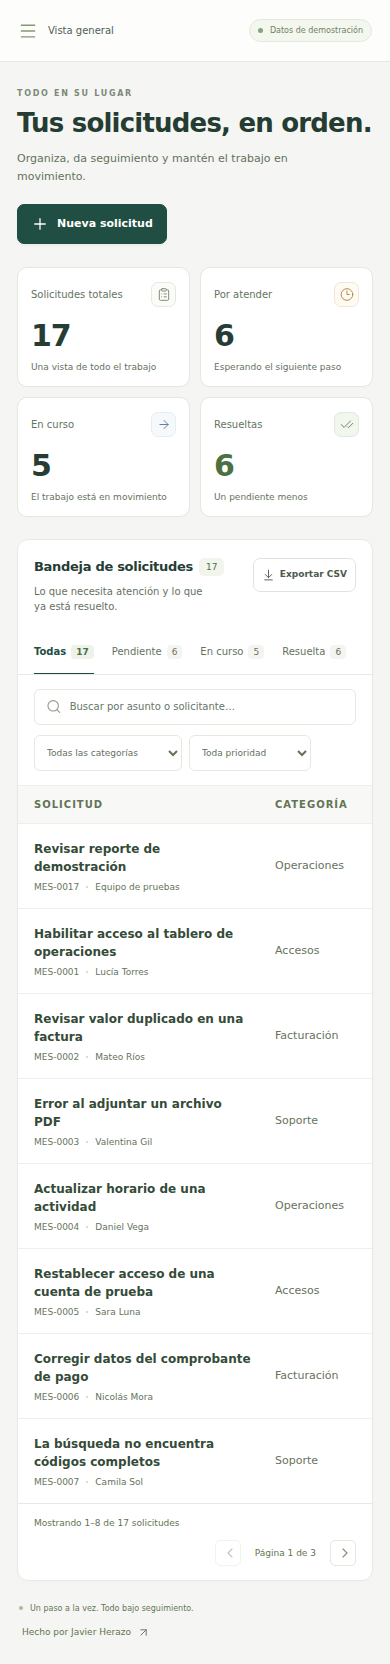
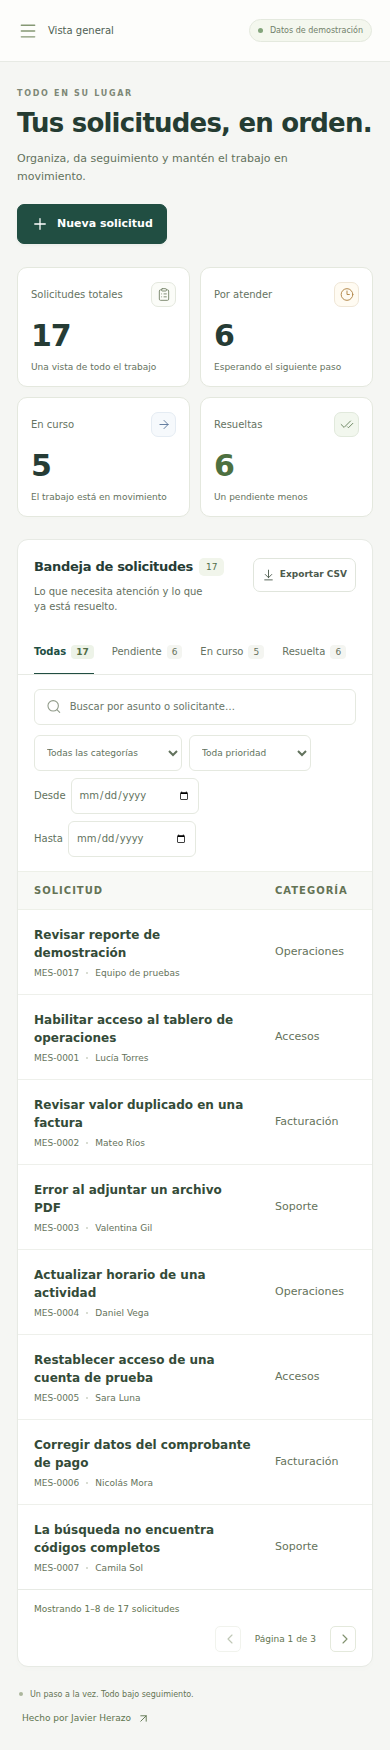
feat: filtra solicitudes por fecha de creacion

diff --git a/src/App.tsx b/src/App.tsx
@@ -36,8 +36,19 @@ import {
 } from './types';
 
 type View = 'overview' | 'requests' | 'reports';
-const emptyFilters: Filters = { search: '', status: '', priority: '', category: '' };
-const shortDate = new Intl.DateTimeFormat('es-CO', { day: '2-digit', month: 'short' });
+const emptyFilters: Filters = {
+  search: '',
+  status: '',
+  priority: '',
+  category: '',
+  dateFrom: '',
+  dateTo: '',
+};
+const shortDate = new Intl.DateTimeFormat('es-CO', {
+  day: '2-digit',
+  month: 'short',
+  timeZone: 'America/Bogota',
+});
 
 export function App() {
   const [view, setView] = useState<View>('overview');
@@ -368,6 +379,26 @@ export function App() {
                       </option>
                     ))}
                   </select>
+                </label>
+                <label className="date-filter">
+                  <span>Desde</span>
+                  <input
+                    aria-label="Fecha de creación desde"
+                    type="date"
+                    value={filters.dateFrom}
+                    max={filters.dateTo || undefined}
+                    onChange={(e) => changeFilter('dateFrom', e.target.value)}
+                  />
+                </label>
+                <label className="date-filter">
+                  <span>Hasta</span>
+                  <input
+                    aria-label="Fecha de creación hasta"
+                    type="date"
+                    value={filters.dateTo}
+                    min={filters.dateFrom || undefined}
+                    onChange={(e) => changeFilter('dateTo', e.target.value)}
+                  />
                 </label>
                 {filtered && (
                   <button className="clear-filters" onClick={clear}>

diff --git a/server/requests.service.ts b/server/requests.service.ts
@@ -1,4 +1,9 @@
-import { ConflictException, Injectable, NotFoundException } from '@nestjs/common';
+import {
+  BadRequestException,
+  ConflictException,
+  Injectable,
+  NotFoundException,
+} from '@nestjs/common';
 import type { SQLInputValue } from 'node:sqlite';
 import { DatabaseService } from './database.service';
 import { ChangeStatusDto, CreateRequestDto, RequestFiltersDto } from './requests.dto';
@@ -32,6 +37,9 @@ export class RequestsService {
   constructor(private readonly database: DatabaseService) {}
 
   private filters(filters: RequestFiltersDto): { where: string; params: SQLInputValue[] } {
+    if (filters.dateFrom && filters.dateTo && filters.dateFrom > filters.dateTo) {
+      throw new BadRequestException('La fecha inicial no puede ser posterior a la fecha final.');
+    }
     const clauses: string[] = [];
     const params: SQLInputValue[] = [];
     for (const field of ['status', 'priority', 'category'] as const) {
@@ -46,6 +54,18 @@ export class RequestsService {
       );
       const search = `%${escapeLike(filters.search)}%`;
       params.push(search, search, search, search);
+    }
+    // A calendar day in Colombia starts at 05:00 UTC. The upper bound is exclusive.
+    if (filters.dateFrom) {
+      clauses.push('createdAt >= ?');
+      params.push(`${filters.dateFrom}T05:00:00.000Z`);
+    }
+    if (filters.dateTo) {
+      const nextDate = new Date(Date.parse(`${filters.dateTo}T00:00:00.000Z`) + 86_400_000)
+        .toISOString()
+        .slice(0, 10);
+      clauses.push('createdAt < ?');
+      params.push(`${nextDate}T05:00:00.000Z`);
     }
     return { where: clauses.length ? `WHERE ${clauses.join(' AND ')}` : '', params };
   }

diff --git a/tests/e2e/workflow.spec.ts b/tests/e2e/workflow.spec.ts
@@ -21,12 +21,26 @@ test('bandeja, paginación, filtros combinados y reporte completo', async ({ pag
   const pendingTab = page.getByRole('button', { name: /^Pendiente/ });
   await pendingTab.click();
   await expect(page.locator('tbody tr')).toHaveCount(1);
+  const result = await request.get('/api/requests?category=Accesos&priority=high&status=pending');
+  const data = await result.json();
+  const dateParts = Object.fromEntries(
+    new Intl.DateTimeFormat('en-US', {
+      year: 'numeric',
+      month: '2-digit',
+      day: '2-digit',
+      timeZone: 'America/Bogota',
+    })
+      .formatToParts(new Date(data.items[0].createdAt))
+      .map(({ type, value }) => [type, value]),
+  );
+  const date = `${dateParts.year}-${dateParts.month}-${dateParts.day}`;
+  await page.getByLabel('Fecha de creación desde').fill(date);
+  await page.getByLabel('Fecha de creación hasta').fill(date);
+  await expect(page.locator('tbody tr')).toHaveCount(1);
   const downloadEvent = page.waitForEvent('download');
   await page.getByRole('button', { name: 'Exportar CSV' }).click();
   const download = await downloadEvent;
   const csv = await readFile((await download.path())!, 'utf8');
-  const result = await request.get('/api/requests?category=Accesos&priority=high&status=pending');
-  const data = await result.json();
   expect(csv).toContain(data.items[0].code);
   expect(csv.split('\r\n').filter(Boolean).length).toBe(data.total + 1);
   expect(errors).toEqual([]);

diff --git a/server/requests.dto.ts b/server/requests.dto.ts
@@ -1,5 +1,16 @@
 import { Transform } from 'class-transformer';
-import { IsIn, IsInt, IsOptional, IsString, Length, Max, MaxLength, Min } from 'class-validator';
+import {
+  IsIn,
+  IsInt,
+  IsISO8601,
+  IsOptional,
+  IsString,
+  Length,
+  Matches,
+  Max,
+  MaxLength,
+  Min,
+} from 'class-validator';
 import {
   CATEGORIES,
   PRIORITIES,
@@ -65,6 +76,16 @@ export class RequestFiltersDto {
   @IsOptional()
   @IsIn(CATEGORIES, { message: 'Selecciona una categoría válida.' })
   category?: RequestCategory;
+
+  @IsOptional()
+  @Matches(/^\d{4}-\d{2}-\d{2}$/, { message: 'La fecha inicial debe tener formato AAAA-MM-DD.' })
+  @IsISO8601({ strict: true }, { message: 'Selecciona una fecha inicial válida.' })
+  dateFrom?: string;
+
+  @IsOptional()
+  @Matches(/^\d{4}-\d{2}-\d{2}$/, { message: 'La fecha final debe tener formato AAAA-MM-DD.' })
+  @IsISO8601({ strict: true }, { message: 'Selecciona una fecha final válida.' })
+  dateTo?: string;
 
   @Transform(integer)
   @IsInt({ message: 'La página debe ser un número entero.' })

diff --git a/src/styles.css b/src/styles.css
@@ -645,6 +645,28 @@ h1 {
   height: 36px;
   max-width: 180px;
 }
+.date-filter {
+  display: flex;
+  align-items: center;
+  gap: 5px;
+  color: #62725d;
+  font-size: 10px;
+}
+.date-filter input {
+  height: 36px;
+  width: 128px;
+  min-width: 0;
+  border: 1px solid #e5e9e0;
+  border-radius: 6px;
+  padding: 0 7px;
+  background: #fff;
+  color: #62725d;
+  font: inherit;
+}
+.date-filter input:focus-visible {
+  outline: 2px solid #92ab94;
+  outline-offset: 2px;
+}
 .clear-filters {
   color: #56734b;
   font-size: 10px;

diff --git a/src/useRequests.ts b/src/useRequests.ts
@@ -24,6 +24,15 @@ export function useRequests(filters: Filters, page: number, revision: number) {
         if (!controller.signal.aborted) setLoading(false);
       });
     return () => controller.abort();
-  }, [filters.search, filters.status, filters.priority, filters.category, page, revision]);
+  }, [
+    filters.search,
+    filters.status,
+    filters.priority,
+    filters.category,
+    filters.dateFrom,
+    filters.dateTo,
+    page,
+    revision,
+  ]);
   return { data, stats, loading, error };
 }

diff --git a/src/types.ts b/src/types.ts
@@ -42,6 +42,8 @@ export interface Filters {
   status: '' | Status;
   priority: '' | Priority;
   category: '' | Category;
+  dateFrom: string;
+  dateTo: string;
 }
 export interface NewRequest {
   title: string;

diff --git a/docs/qa.md b/docs/qa.md
@@ -13,16 +13,16 @@ npx playwright install chromium
 npm run test:e2e
 ```
 
-`npm test` compila el servidor y ejecuta los casos HTTP de `tests/api.test.cjs` mediante `node:test` y Supertest. Incluyen datos iniciales, paginación, filtros, indicadores, validación, creación, transiciones, historial, exportación CSV, tratamiento de texto SQL y persistencia tras reiniciar.
+`npm test` compila el servidor y ejecuta los casos HTTP de `tests/api.test.cjs` mediante `node:test` y Supertest. Incluyen datos iniciales, paginación, filtros y rango de fechas de creación, indicadores, validación, creación, transiciones, historial, exportación CSV, tratamiento de texto SQL y persistencia tras reiniciar.
 
 `npm run test:e2e` compila el proyecto y ejecuta `tests/e2e/workflow.spec.ts` con Playwright y Chromium. La configuración inicia su propia API en `127.0.0.1:4011`. Si Chromium no inicia por bibliotecas ausentes en Linux, ejecutar `npx playwright install-deps chromium`; puede requerir permisos de administrador.
 
-| Escenario de navegador                     | Comprobaciones incluidas                                                                        |
-| ------------------------------------------ | ----------------------------------------------------------------------------------------------- |
-| Bandeja, paginación, filtros y exportación | Filas visibles, navegación entre páginas, combinación de filtros y contenido del CSV descargado |
-| Crear, iniciar, resolver y reabrir         | Formulario, notas, historial visible, búsqueda posterior y recarga de la página                 |
-| Búsqueda vacía y recuperación de error     | Estado sin coincidencias, respuesta HTTP 500 simulada, reintento y navegación a reportes        |
-| Navegación móvil y foco                    | Vista de 390 px, menú, formulario, cierre con Escape y devolución del foco                      |
+| Escenario de navegador                     | Comprobaciones incluidas                                                                                         |
+| ------------------------------------------ | ---------------------------------------------------------------------------------------------------------------- |
+| Bandeja, paginación, filtros y exportación | Filas visibles, navegación entre páginas, combinación de filtros, rango de fechas y contenido del CSV descargado |
+| Crear, iniciar, resolver y reabrir         | Formulario, notas, historial visible, búsqueda posterior y recarga de la página                                  |
+| Búsqueda vacía y recuperación de error     | Estado sin coincidencias, respuesta HTTP 500 simulada, reintento y navegación a reportes                         |
+| Navegación móvil y foco                    | Vista de 390 px, menú, formulario, cierre con Escape y devolución del foco                                       |
 
 Los escenarios generan capturas de la aplicación cuando alcanzan los pasos correspondientes. Una captura producida antes de un fallo no demuestra que haya pasado todo el escenario. Estos casos tampoco sustituyen la evaluación manual de contraste, zoom, todos los recorridos de teclado o múltiples navegadores.
 
@@ -42,6 +42,10 @@ Las pruebas de navegador confirmaron las correcciones de desbordamiento horizont
 El resultado de la auditoría corresponde al lockfile y a los avisos disponibles durante esa instalación. Las pruebas automatizadas anteriores están ejecutadas; **la matriz manual siguiente sigue pendiente de ejecución registrada**, incluyendo zoom al 200 %, contraste, revisión completa por teclado y otros navegadores.
 
 Para mantener el formato, `npm run format:check` revisa código y documentación con Prettier 3.6.2; `npm run format` aplica el formato.
+
+### Ejecución registrada: 1 de octubre de 2026
+
+Con Node.js **24.18.0** y npm **11.16.0**, pasaron **9 de 9 pruebas de API** y **4 de 4 escenarios de Playwright en Chromium**. La prueba adicional comprueba los límites del día en Colombia, la combinación del rango con la búsqueda, su aplicación al CSV y el rechazo de fechas inválidas o invertidas. El escenario de navegador cubre los campos «Desde» y «Hasta» junto con la descarga filtrada. Las capturas actuales se generaron en esta ejecución. La matriz manual sigue pendiente.
 
 ## Verificación de la demo pública — 29 de septiembre de 2026
 
@@ -87,6 +91,8 @@ No depender de un identificador o un conteo fijo de los datos de ejemplo: usar l
 | QA-15 | Crear una solicitud, detener y reiniciar el servidor con el mismo `DATABASE_PATH`.                                                                                | La solicitud y su historial se conservan; no se duplican los datos iniciales.                                           |
 | QA-16 | Solicitar por API un ID inexistente o parámetros de paginación inválidos.                                                                                         | Se responde HTTP 404 para el recurso inexistente y HTTP 400 para parámetros inválidos.                                  |
 | QA-17 | Con la interfaz abierta, detener la API e intentar recargar datos o enviar una solicitud.                                                                         | Se comunica un error sin anunciar un guardado exitoso. Al reiniciar la API puede recuperarse el flujo.                  |
+
+Caso adicional **QA-23 — rango de fechas de creación:** filtrar desde y hasta por el mismo día, descargar el CSV y limpiar los filtros. El listado y el CSV deben contener las mismas solicitudes de ese día en Colombia; al limpiar, reaparece el listado completo.
 
 ## Interfaz y accesibilidad
 

diff --git a/docs/api.md b/docs/api.md
@@ -76,10 +76,21 @@ Todos los parámetros son opcionales. Los filtros se combinan; omitir un filtro 
 | -------------------------------- | ----------------------------------------------------------------------------------------------------------------- |
 | `search`                         | Hasta 100 caracteres; busca en código, título, descripción y solicitante. `%` y `_` se tratan como texto literal. |
 | `status`, `priority`, `category` | Deben pertenecer a los catálogos anteriores.                                                                      |
+| `dateFrom`, `dateTo`             | Fechas de creación inclusivas en formato `AAAA-MM-DD`, según el calendario de Colombia (`America/Bogota`).        |
 | `page`                           | Entero entre 1 y 100000; predeterminado: 1.                                                                       |
 | `pageSize`                       | Entero entre 1 y 50; predeterminado: 8, también utilizado por la interfaz.                                        |
 
 El orden es por fecha de creación descendente y, si coincide, por identificador descendente. No se admiten campos de consulta adicionales.
+
+Para consultar las solicitudes creadas durante un día en Colombia:
+
+```bash
+curl --get 'http://localhost:4010/api/requests' \
+  --data-urlencode 'dateFrom=2026-09-30' \
+  --data-urlencode 'dateTo=2026-09-30'
+```
+
+Se pueden enviar solo `dateFrom` o solo `dateTo`. Si ambas están presentes, la fecha inicial no puede ser posterior a la final. Fechas imposibles y formatos distintos devuelven HTTP **400**. La misma regla aplica al CSV.
 
 La respuesta contiene:
 
@@ -145,7 +156,7 @@ curl --get 'http://localhost:4010/api/requests/export' \
   --output mesa-pendientes.csv
 ```
 
-La exportación acepta los mismos filtros `search`, `status`, `priority` y `category` del listado. Incluye **todas** las coincidencias; no se limita a una página. Si se envían `page` y `pageSize`, se validan pero no restringen el archivo. La respuesta utiliza `Content-Type: text/csv; charset=utf-8` y una cabecera de descarga.
+La exportación acepta los mismos filtros `search`, `status`, `priority`, `category`, `dateFrom` y `dateTo` del listado. Incluye **todas** las coincidencias; no se limita a una página. Si se envían `page` y `pageSize`, se validan pero no restringen el archivo. La respuesta utiliza `Content-Type: text/csv; charset=utf-8` y una cabecera de descarga.
 
 El archivo usa UTF-8 con BOM, separador coma y saltos de línea CRLF. Los estados y prioridades se exportan con etiquetas en español. Las comillas se escapan y los textos que podrían interpretarse como fórmulas llevan un apóstrofo inicial.
 

diff --git a/README.md b/README.md
@@ -15,7 +15,7 @@ Es un proyecto personal de portafolio preparado con asistencia de IA. Los datos 
 ## Qué se puede probar
 
 - Crear solicitudes con título, descripción, solicitante, categoría y prioridad.
-- Buscar y combinar filtros; navegar por páginas de resultados.
+- Buscar y combinar filtros, incluido un rango de fechas de creación; navegar por páginas de resultados.
 - Consultar indicadores globales, independientes de los filtros de la bandeja.
 - Cambiar de estado con reglas validadas por la API y conservar un historial.
 - Reabrir solicitudes resueltas para continuar su atención.
@@ -95,7 +95,7 @@ En Linux, si faltan bibliotecas del navegador, instalar sus dependencias con `np
 
 La suite de navegador recorre la bandeja y exportación, el ciclo completo de una solicitud, la recuperación de errores y la navegación móvil. La [matriz de QA](docs/qa.md) distingue esos escenarios automatizados de las verificaciones manuales pendientes.
 
-Verificado el **29 de septiembre de 2026**, con Node.js **24.18.0** y npm **11.16.0**: compilación correcta, **8/8 pruebas de API** y **4/4 escenarios de Playwright en Chromium** aprobados. Las capturas anteriores proceden de esa ejecución.
+Verificado el **1 de octubre de 2026**, con Node.js **24.18.0** y npm **11.16.0**: compilación correcta, **9/9 pruebas de API** y **4/4 escenarios de Playwright en Chromium** aprobados. Las capturas anteriores proceden de esa ejecución.
 
 El formato del código y la documentación se mantiene con Prettier 3.6.2: `npm run format:check` revisa y `npm run format` aplica el formato.
 
